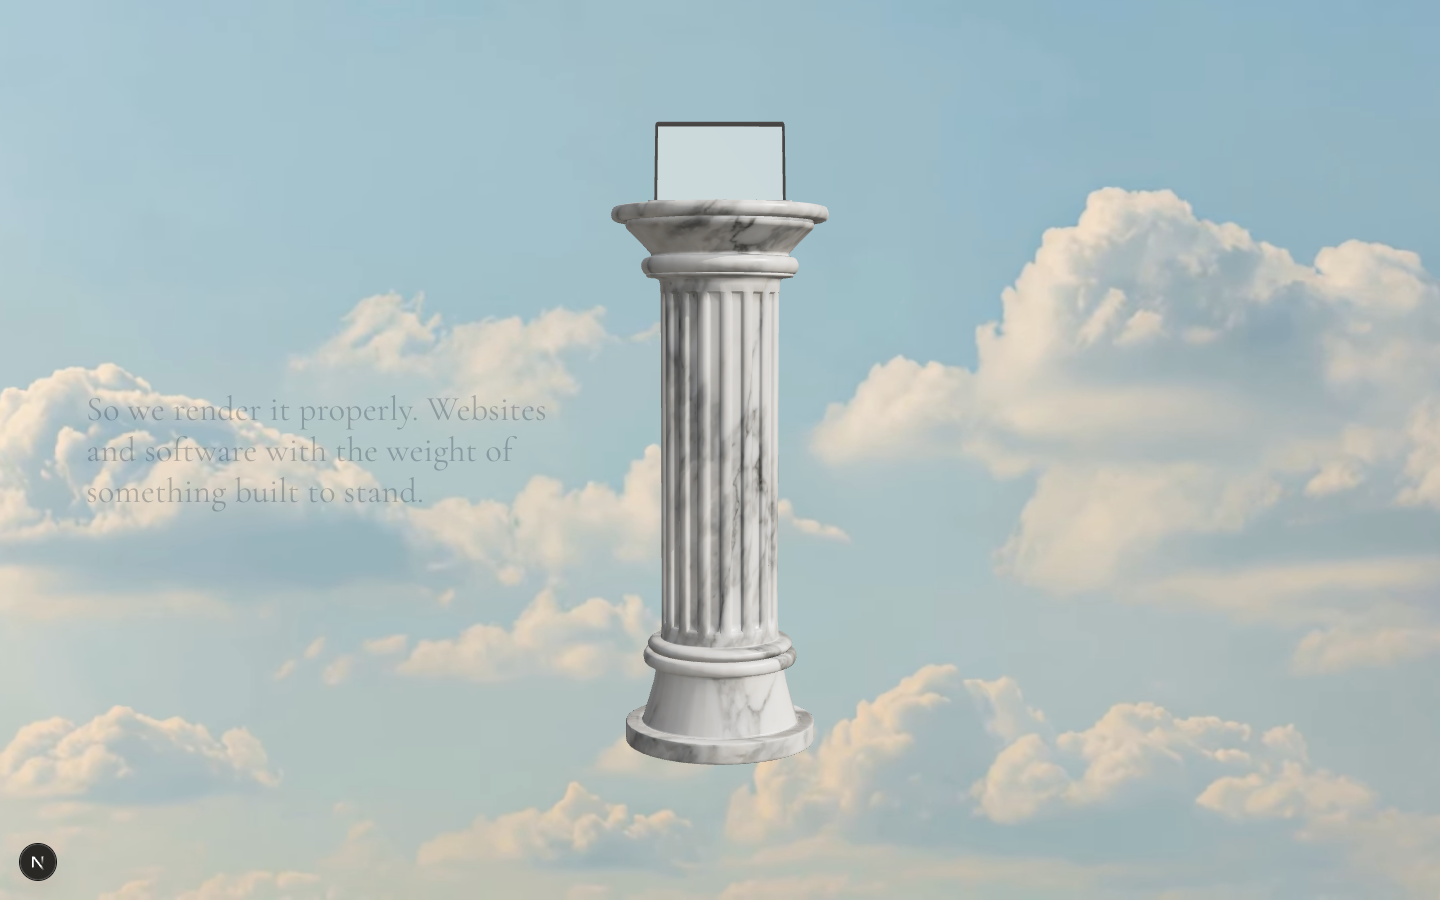
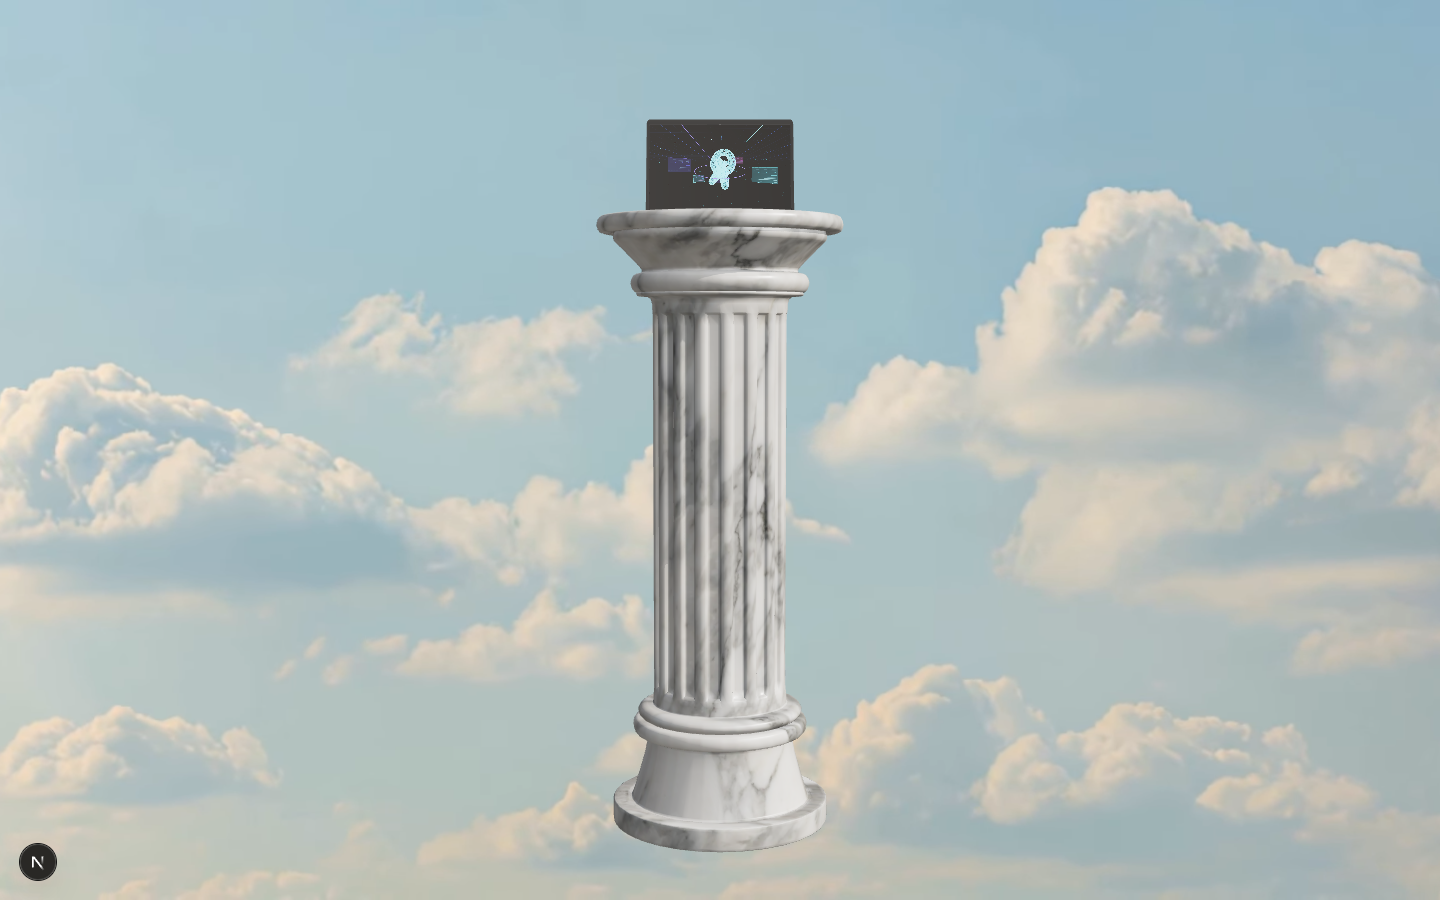
Laptop screen is a live world: offscreen universe (grid, panels, wireframe knot, sparks) fed to the screen; screen UVs rebuilt at load
Claude-Session: https://claude.ai/code/session_01NAdPXLUXCGhh82qBsMYyAh

diff --git a/src/hero/Universe.tsx b/src/hero/Universe.tsx
@@ -1,0 +1,149 @@
+"use client";
+import { useFrame, useThree, createPortal } from "@react-three/fiber";
+import { Float, Grid, Sparkles, Stars, useFBO } from "@react-three/drei";
+import { useEffect, useMemo, useRef } from "react";
+import * as THREE from "three";
+import { progress } from "./progress";
+import { BEATS, ease, remap } from "./beats";
+
+/**
+ * The world behind the screen. Rendered to an offscreen target every frame with its own camera, and shown on
+ * the laptop's ScreenSurface as an emissive map. When the laptop fills the page the target fills the page, so
+ * the viewer is inside. The camera drifts forward on a wall clock and pushes in with the scroll hold.
+ */
+
+const INK = "#060913";
+const CYAN = "#5ef2ff";
+const VIOLET = "#8b7bff";
+const ROSE = "#ff7ad9";
+
+/** A procedurally drawn interface mock: a nav bar, a headline block, a row of cards. Drawn once to a canvas. */
+function uiTexture(seed: number, accent: string): THREE.CanvasTexture {
+  const w = 512, h = 320;
+  const c = document.createElement("canvas");
+  c.width = w; c.height = h;
+  const g = c.getContext("2d")!;
+  g.fillStyle = "rgba(10, 14, 28, 0.85)";
+  g.fillRect(0, 0, w, h);
+  g.strokeStyle = "rgba(255,255,255,0.10)";
+  g.lineWidth = 2;
+  g.strokeRect(1, 1, w - 2, h - 2);
+  const rnd = (i: number) => (Math.sin(seed * 12.9898 + i * 78.233) * 43758.5453) % 1;
+  // nav
+  g.fillStyle = "rgba(255,255,255,0.8)";
+  g.fillRect(24, 22, 46, 8);
+  for (let i = 0; i < 4; i++) { g.fillStyle = "rgba(255,255,255,0.35)"; g.fillRect(w - 40 - i * 56, 22, 34, 8); }
+  // headline lines
+  const lines = [0.62, 0.5, 0.3];
+  lines.forEach((f, i) => { g.fillStyle = i < 2 ? "rgba(255,255,255,0.9)" : "rgba(255,255,255,0.45)"; g.fillRect(24, 62 + i * 26, w * f * (0.8 + Math.abs(rnd(i)) * 0.3), i < 2 ? 14 : 8); });
+  // accent button
+  g.fillStyle = accent; g.fillRect(24, 148, 96, 24);
+  // cards
+  for (let i = 0; i < 3; i++) {
+    const x = 24 + i * 156;
+    g.fillStyle = "rgba(255,255,255,0.06)"; g.fillRect(x, 196, 140, 98);
+    g.strokeStyle = "rgba(255,255,255,0.14)"; g.strokeRect(x, 196, 140, 98);
+    g.fillStyle = accent; g.globalAlpha = 0.9; g.fillRect(x + 12, 208, 24, 24); g.globalAlpha = 1;
+    g.fillStyle = "rgba(255,255,255,0.7)"; g.fillRect(x + 12, 244, 90 * (0.7 + Math.abs(rnd(i + 7)) * 0.3), 8);
+    g.fillStyle = "rgba(255,255,255,0.35)"; g.fillRect(x + 12, 262, 110, 6); g.fillRect(x + 12, 276, 70, 6);
+  }
+  const t = new THREE.CanvasTexture(c);
+  t.colorSpace = THREE.SRGBColorSpace;
+  t.anisotropy = 4;
+  return t;
+}
+
+function Panel({ position, rotation, seed, accent, w = 1.6 }: { position: [number, number, number]; rotation: [number, number, number]; seed: number; accent: string; w?: number }) {
+  const tex = useMemo(() => uiTexture(seed, accent), [seed, accent]);
+  const h = w * 0.625;
+  const edges = useMemo(() => new THREE.EdgesGeometry(new THREE.PlaneGeometry(w, h)), [w, h]);
+  return (
+    <Float speed={0.8} rotationIntensity={0.15} floatIntensity={0.4}>
+      <group position={position} rotation={rotation}>
+        <mesh>
+          <planeGeometry args={[w, h]} />
+          <meshStandardMaterial map={tex} transparent opacity={0.92} emissive={new THREE.Color(accent)} emissiveIntensity={0.06} roughness={0.35} metalness={0.1} side={THREE.DoubleSide} />
+        </mesh>
+        <lineSegments geometry={edges}>
+          <lineBasicMaterial color={accent} transparent opacity={0.85} />
+        </lineSegments>
+      </group>
+    </Float>
+  );
+}
+
+function World() {
+  const knot = useRef<THREE.Mesh>(null);
+  const ring = useRef<THREE.Mesh>(null);
+  useFrame((_, dt) => {
+    const d = Math.min(dt, 0.05);
+    if (knot.current) { knot.current.rotation.y += d * 0.25; knot.current.rotation.x += d * 0.1; }
+    if (ring.current) ring.current.rotation.z += d * 0.08;
+  });
+  return (
+    <group>
+      <color attach="background" args={[INK]} />
+      <fog attach="fog" args={[INK, 6, 26]} />
+      <ambientLight intensity={0.35} />
+      <pointLight position={[0, 3, 2]} intensity={40} color={CYAN} distance={14} />
+      <pointLight position={[-4, 1, -4]} intensity={30} color={VIOLET} distance={16} />
+      <pointLight position={[5, -1, -6]} intensity={22} color={ROSE} distance={16} />
+      <Stars radius={60} depth={30} count={2500} factor={3} saturation={0.4} fade speed={0.4} />
+      <Grid position={[0, -1.6, 0]} args={[60, 60]} cellSize={0.5} cellThickness={0.6} cellColor="#1d2a4a" sectionSize={2.5} sectionThickness={1.1} sectionColor="#2f4a8a" fadeDistance={26} fadeStrength={1.4} infiniteGrid />
+      {/* the object at the centre: a wireframe solid turning slowly, lit from inside */}
+      <group position={[0, 0.2, -6]}>
+        <mesh ref={knot}>
+          <torusKnotGeometry args={[1.1, 0.32, 220, 28]} />
+          <meshStandardMaterial color={CYAN} wireframe emissive={new THREE.Color(CYAN)} emissiveIntensity={0.9} />
+        </mesh>
+        <mesh ref={ring} rotation={[Math.PI / 2.4, 0, 0]}>
+          <torusGeometry args={[2.4, 0.012, 8, 160]} />
+          <meshBasicMaterial color={VIOLET} />
+        </mesh>
+      </group>
+      {/* interface panels hanging in space either side of the path */}
+      <Panel position={[-2.9, 0.6, -3.2]} rotation={[0, 0.55, 0]} seed={1} accent={CYAN} />
+      <Panel position={[3.0, -0.2, -4.0]} rotation={[0, -0.6, 0]} seed={2} accent={VIOLET} />
+      <Panel position={[-2.2, -0.9, -8.5]} rotation={[0, 0.35, 0]} seed={3} accent={ROSE} w={1.3} />
+      <Panel position={[2.6, 1.3, -9.5]} rotation={[0, -0.4, 0.05]} seed={4} accent={CYAN} w={1.4} />
+      <Panel position={[0.2, 1.9, -13]} rotation={[0.1, 0, 0]} seed={5} accent={VIOLET} w={2.2} />
+      {/* light streaks along the path */}
+      {[-1.6, 1.6].map((x, i) => (
+        <mesh key={i} position={[x, -1.55, -8]} rotation={[-Math.PI / 2, 0, 0]}>
+          <planeGeometry args={[0.03, 30]} />
+          <meshBasicMaterial color={i ? VIOLET : CYAN} transparent opacity={0.7} />
+        </mesh>
+      ))}
+      <Sparkles count={260} scale={[14, 6, 24]} position={[0, 0.5, -8]} size={2.2} speed={0.25} color={CYAN} opacity={0.7} />
+    </group>
+  );
+}
+
+/** Renders the world offscreen. Exposes the texture through `onTexture`. */
+export function Universe({ onTexture, frozen = false }: { onTexture: (t: THREE.Texture) => void; frozen?: boolean }) {
+  const fbo = useFBO(1280, 800, { samples: 2 });
+  const scene = useMemo(() => new THREE.Scene(), []);
+  const cam = useMemo(() => new THREE.PerspectiveCamera(48, 1.6, 0.1, 80), []);
+  const gl = useThree((s) => s.gl);
+  const clock = useRef(0);
+
+  useEffect(() => { onTexture(fbo.texture); }, [fbo, onTexture]);
+
+  useFrame((_, dt) => {
+    const p = progress.p;
+    // only worth rendering while the screen can be seen
+    if (p < 0.82) return;
+    if (!frozen) clock.current += Math.min(dt, 0.05);
+    const t = clock.current;
+    const hold = ease.smooth(remap(p, BEATS.screen[1], 1.0));
+    // drift forward on the clock, push in a little further through the hold, gentle sway
+    cam.position.set(Math.sin(t * 0.21) * 0.35, 0.15 + Math.sin(t * 0.17) * 0.12, 3.5 - (t * 0.12) % 6 - hold * 1.5);
+    cam.lookAt(Math.sin(t * 0.1) * 0.4, 0.15, -8);
+    const prev = gl.getRenderTarget();
+    gl.setRenderTarget(fbo);
+    gl.render(scene, cam);
+    gl.setRenderTarget(prev);
+  }, -1);
+
+  return createPortal(<World />, scene);
+}

diff --git a/src/hero/Rebuild.tsx b/src/hero/Rebuild.tsx
@@ -23,7 +23,7 @@ export const stageTarget = { look: new THREE.Vector3(0, 0.66, 0), camPos: new TH
 const rebuildDissolve = makeDissolve(COLUMN_TOP + 0.3, true);
 
 /** Column and laptop surface beneath the settling dust, then turn, open and light up. */
-export function Rebuild({ video }: { video: HTMLVideoElement | null }) {
+export function Rebuild({ video, screenTexture }: { video: HTMLVideoElement | null; screenTexture?: THREE.Texture | null }) {
   const column = useGLTF(COLUMN, DRACO);
   const laptop = useGLTF(LAPTOP, DRACO);
   const group = useRef<THREE.Group>(null);
@@ -56,6 +56,19 @@ export function Rebuild({ video }: { video: HTMLVideoElement | null }) {
     const sc = l.getObjectByName("ScreenSurface") as THREE.Mesh | null;
     screen.current = sc;
     if (sc) {
+      // the export dropped the quad's texture coordinates: rebuild them from the geometry's own plane
+      const pos = sc.geometry.getAttribute("position");
+      const pts: THREE.Vector3[] = [];
+      for (let i = 0; i < pos.count; i++) pts.push(new THREE.Vector3().fromBufferAttribute(pos, i));
+      const n = new THREE.Vector3().crossVectors(pts[1].clone().sub(pts[0]), pts[2].clone().sub(pts[0])).normalize();
+      const up = Math.abs(n.y) < 0.9 ? new THREE.Vector3(0, 1, 0) : new THREE.Vector3(0, 0, 1);
+      const uAxis = new THREE.Vector3().crossVectors(up, n).normalize();
+      const vAxis = new THREE.Vector3().crossVectors(n, uAxis).normalize();
+      const us = pts.map((q) => q.dot(uAxis)), vs = pts.map((q) => q.dot(vAxis));
+      const [u0, u1, v0, v1] = [Math.min(...us), Math.max(...us), Math.min(...vs), Math.max(...vs)];
+      const uv = new Float32Array(pos.count * 2);
+      for (let i = 0; i < pos.count; i++) { uv[i * 2] = (us[i] - u0) / (u1 - u0); uv[i * 2 + 1] = 1 - (vs[i] - v0) / (v1 - v0); }  // render targets read bottom up
+      sc.geometry.setAttribute("uv", new THREE.BufferAttribute(uv, 2));
       const sm = new THREE.MeshStandardMaterial({ color: 0x050607, roughness: 0.25, metalness: 0.0, emissive: 0xffffff, emissiveIntensity: 0, side: THREE.DoubleSide });
       applyDissolve(sm, rebuildDissolve, "rebuild-dissolve-screen");
       sc.material = sm;
@@ -68,16 +81,25 @@ export function Rebuild({ video }: { video: HTMLVideoElement | null }) {
     return { c, l };
   }, [column.scene, laptop.scene]);
 
+  // the screen shows the offscreen universe when there is one, else the video
   useEffect(() => {
-    if (!video || !screenMat.current) return;
+    const m = screenMat.current;
+    if (!m) return;
+    if (screenTexture) {
+      screenTexture.flipY = false;
+      m.emissiveMap = screenTexture;
+      m.needsUpdate = true;
+      return;
+    }
+    if (!video) return;
     const t = new THREE.VideoTexture(video);
     t.colorSpace = THREE.SRGBColorSpace;
     t.flipY = false;
     tex.current = t;
-    screenMat.current.emissiveMap = t;
-    screenMat.current.needsUpdate = true;
+    m.emissiveMap = t;
+    m.needsUpdate = true;
     return () => t.dispose();
-  }, [video]);
+  }, [video, screenTexture]);
 
   const tmpN = useMemo(() => new THREE.Vector3(), []);
   const tmpBox = useMemo(() => new THREE.Box3(), []);

diff --git a/src/hero/Scene.tsx b/src/hero/Scene.tsx
@@ -10,6 +10,9 @@ import { Sky } from "./Sky";
 import { Statue } from "./Statue";
 import { Morph } from "./Morph";
 import { Rebuild } from "./Rebuild";
+import { Universe } from "./Universe";
+import { useCallback, useState } from "react";
+import type { Texture } from "three";
 
 /** Key light orbits the statue through the hold, so the light moves instead of the model. */
 function Lights() {
@@ -76,6 +79,8 @@ export function Scene({
   video?: HTMLVideoElement | null;
 }) {
   const mobile = typeof window !== "undefined" && window.innerWidth < 820;
+  const [screenTexture, setScreenTexture] = useState<Texture | null>(null);
+  const onTexture = useCallback((t: Texture) => setScreenTexture(t), []);
   return (
     <div className="hero__canvas hero__canvas--statue">
       <Canvas
@@ -106,7 +111,8 @@ export function Scene({
         </Suspense>
         <Suspense fallback={null}>
           <Morph set={mobile ? "mobile" : "desktop"} frozen={frozen} />
-          <Rebuild video={video} />
+          <Rebuild video={video} screenTexture={screenTexture} />
+          <Universe onTexture={onTexture} frozen={frozen} />
         </Suspense>
         <Lights />
         <CameraRig frozen={frozen} />

diff --git a/src/app/globals.css b/src/app/globals.css
@@ -236,6 +236,7 @@ body {
   left: 50%;
   bottom: clamp(1.5rem, 10vh, 7rem);
   transform: translateX(-50%);
+  color: white;  /* it sits over the dark world inside the screen */
 }
 
 @keyframes headline-in {
